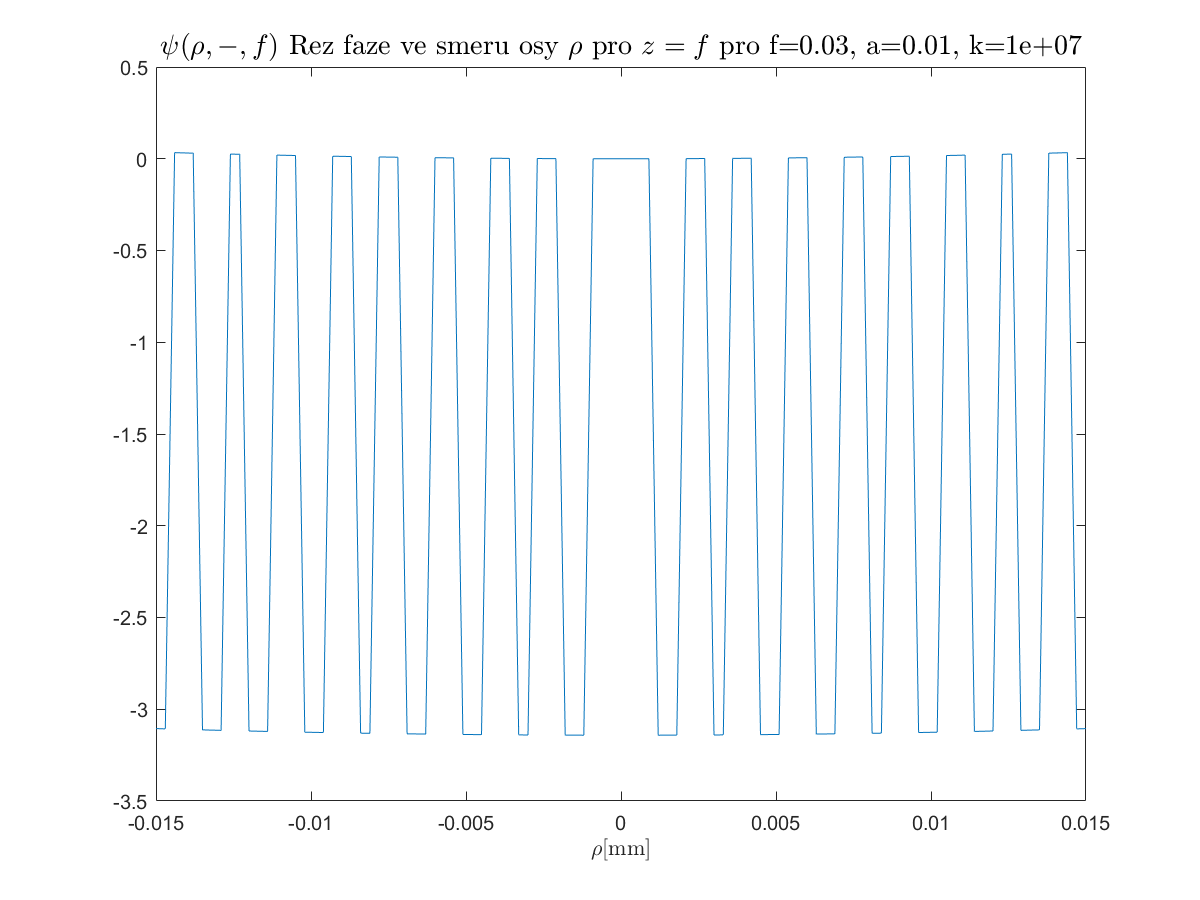
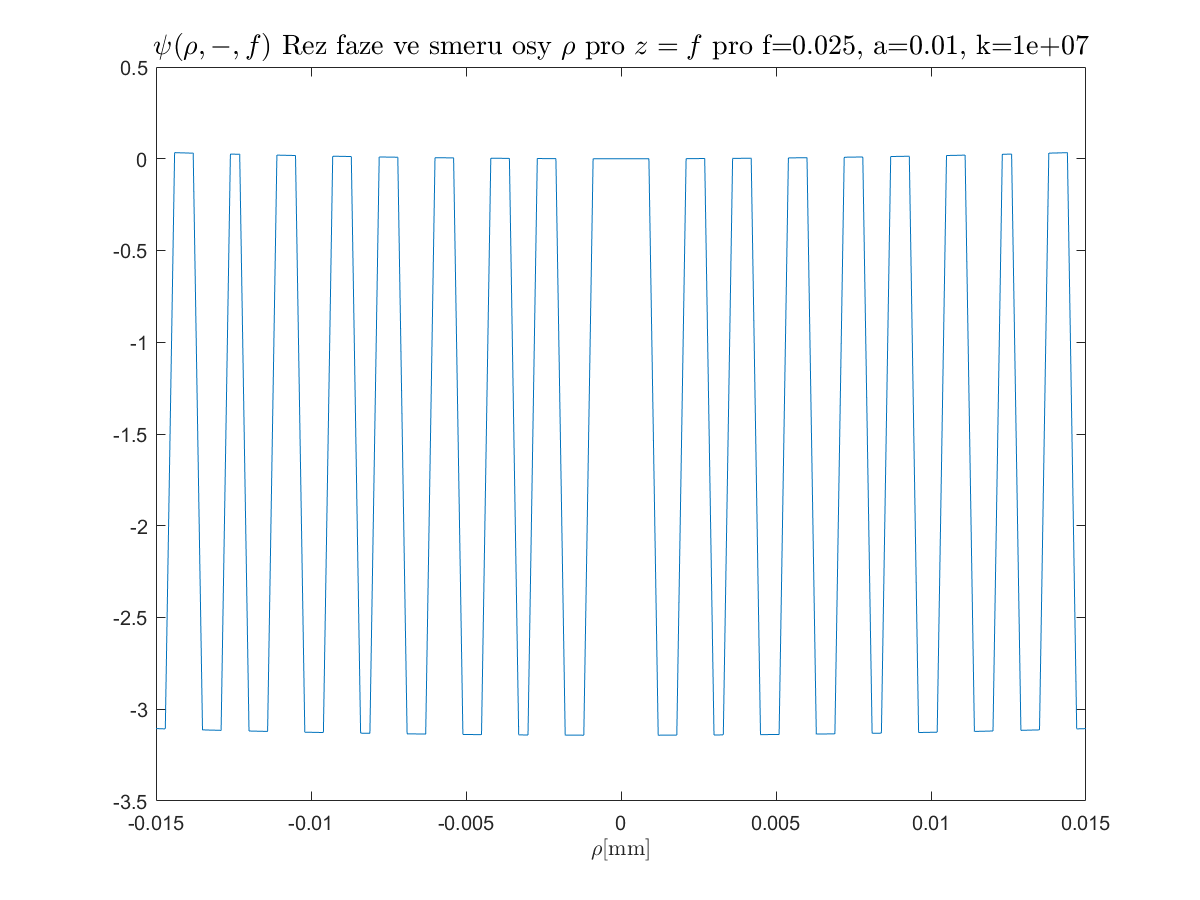
new pics

Changed region(s): [[0.1233, 0.0311, 0.925, 0.0622]]

diff --git a/vlnka.m b/vlnka.m
@@ -79,37 +79,37 @@ fntsz=14;
 
 figure('Position',[100 300 800 600])
 plot(zi,abs(PSI1D).^2);
-title('$\psi(0,-,z)$ Osova relativni intenzita pro f='+compose("%.0g",f)+', a='+compose("%.0g",a)+', k='+compose("%.0g",k),'fontsize',fntsz,'Interpreter','latex')
+title('$\psi(0,-,z)$ Osova relativni intenzita pro f='+compose("%.2g",f)+', a='+compose("%.2g",a)+', k='+compose("%.2g",k),'fontsize',fntsz,'Interpreter','latex')
 xlabel('$z-f$[mm]','Interpreter','latex')
 
 figure('Position',[100 300 800 600])
 plot(zi,angle(PSI1D));
-title('$\psi(0,-,z)$ Osova faze pro f='+compose("%.0g",f)+', a='+compose("%.0g",a)+', k='+compose("%.0g",k),'fontsize',fntsz,'Interpreter','latex')
+title('$\psi(0,-,z)$ Osova faze pro f='+compose("%.2g",f)+', a='+compose("%.2g",a)+', k='+compose("%.2g",k),'fontsize',fntsz,'Interpreter','latex')
 xlabel('$z-f$[mm]','Interpreter','latex')
 
 figure('Position',[100 300 800 600])
 plot(x,abs(PSIAXZ).^2);
-title('$\psi(0,-,z)$ Rez relativni intenzity ve smeru osy $z$ pro $\rho=0$ pro f='+compose("%.0g",f)+', a='+compose("%.0g",a)+', k='+compose("%.0g",k),'fontsize',fntsz,'Interpreter','latex')
+title('$\psi(0,-,z)$ Rez relativni intenzity ve smeru osy $z$ pro $\rho=0$ pro f='+compose("%.2g",f)+', a='+compose("%.2g",a)+', k='+compose("%.2g",k),'fontsize',fntsz,'Interpreter','latex')
 xlabel('$z-f$[mm]','Interpreter','latex')
 
 figure('Position',[100 300 800 600])
 plot(x,angle(PSIAXZ));
-title('$\psi(0,-,z)$ Rez faze ve smeru osy $z$ pro $\rho=0$ pro f='+compose("%.0g",f)+', a='+compose("%.0g",a)+', k='+compose("%.0g",k),'fontsize',fntsz,'Interpreter','latex')
+title('$\psi(0,-,z)$ Rez faze ve smeru osy $z$ pro $\rho=0$ pro f='+compose("%.2g",f)+', a='+compose("%.2g",a)+', k='+compose("%.2g",k),'fontsize',fntsz,'Interpreter','latex')
 xlabel('$z-f$[mm]','Interpreter','latex')
 
 figure('Position',[100 300 800 600])
 plot(y,abs(PSIAXR).^2);
-title('$\psi(\rho,-,f)$ Rez relativni intenzity ve smeru osy $\rho$ pro $z=f$ pro f='+compose("%.0g",f)+', a='+compose("%.0g",a)+', k='+compose("%.0g",k),'fontsize',fntsz,'Interpreter','latex')
+title('$\psi(\rho,-,f)$ Rez relativni intenzity ve smeru osy $\rho$ pro $z=f$ pro f='+compose("%.2g",f)+', a='+compose("%.2g",a)+', k='+compose("%.2g",k),'fontsize',fntsz,'Interpreter','latex')
 xlabel('$\rho$[mm]','Interpreter','latex')
 
 figure('Position',[100 300 800 600])
 plot(y,angle(PSIAXR));
-title('$\psi(\rho,-,f)$ Rez faze ve smeru osy $\rho$ pro $z=f$ pro f='+compose("%.0g",f)+', a='+compose("%.0g",a)+', k='+compose("%.0g",k),'fontsize',fntsz,'Interpreter','latex')
+title('$\psi(\rho,-,f)$ Rez faze ve smeru osy $\rho$ pro $z=f$ pro f='+compose("%.2g",f)+', a='+compose("%.2g",a)+', k='+compose("%.2g",k),'fontsize',fntsz,'Interpreter','latex')
 xlabel('$\rho$[mm]','Interpreter','latex')
 
 figure('Position',[100 300 800 600])
 contour(X,Y,abs(PSI).^2,[0,0.001,0.002,0.003,0.005,0.01,0.02,0.03,0.05,0.1,0.2,0.3,0.4,0.5,0.6,0.7,0.8,0.9,1],'ShowText','on');
-title('$\psi(\rho,-,z)$ Relativni intenzita pro f='+compose("%.0g",f)+', a='+compose("%.0g",a)+', k='+compose("%.0g",k),'fontsize',fntsz,'Interpreter','latex')
+title('$\psi(\rho,-,z)$ Relativni intenzita pro f='+compose("%.2g",f)+', a='+compose("%.2g",a)+', k='+compose("%.2g",k),'fontsize',fntsz,'Interpreter','latex')
 xlabel('$z-f$[mm]','Interpreter','latex')
 ylabel('$\rho$[mm]','Interpreter','latex')
 colormap jet
@@ -117,7 +117,7 @@ colorbar
 
 figure('Position',[100 300 800 600])
 contour(X,Y,angle(PSI),20);
-title('$\psi(\rho,-,z)$ Faze pro f='+compose("%.0g",f)+', a='+compose("%.0g",a)+', k='+compose("%.0g",k),'fontsize',fntsz,'Interpreter','latex')
+title('$\psi(\rho,-,z)$ Faze pro f='+compose("%.2g",f)+', a='+compose("%.2g",a)+', k='+compose("%.2g",k),'fontsize',fntsz,'Interpreter','latex')
 xlabel('$z-f$[mm]','Interpreter','latex')
 ylabel('$\rho$[mm]','Interpreter','latex')
 colormap jet
@@ -125,7 +125,7 @@ colorbar
 
 figure('Position',[100 300 800 600])
 contourf(X,Y,abs(PSI).^2,100,'LineColor','none');
-title('$\psi(\rho,-,z)$ Relativni intenzita pro f='+compose("%.0g",f)+', a='+compose("%.0g",a)+', k='+compose("%.0g",k),'fontsize',fntsz,'Interpreter','latex')
+title('$\psi(\rho,-,z)$ Relativni intenzita pro f='+compose("%.2g",f)+', a='+compose("%.2g",a)+', k='+compose("%.2g",k),'fontsize',fntsz,'Interpreter','latex')
 xlabel('$z-f$[mm]','Interpreter','latex')
 ylabel('$\rho$[mm]','Interpreter','latex')
 colormap jet
@@ -133,7 +133,7 @@ colorbar
 
 figure('Position',[100 300 800 600])
 surfc(X,Y,abs(PSI).^2)
-title('$\psi(\rho,-,z)$ Relativni intenzita pro f='+compose("%.0g",f)+', a='+compose("%.0g",a)+', k='+compose("%.0g",k),'fontsize',fntsz,'Interpreter','latex')
+title('$\psi(\rho,-,z)$ Relativni intenzita pro f='+compose("%.2g",f)+', a='+compose("%.2g",a)+', k='+compose("%.2g",k),'fontsize',fntsz,'Interpreter','latex')
 xlabel('$z-f$[mm]','Interpreter','latex')
 ylabel('$\rho$[mm]','Interpreter','latex')
 colormap jet
@@ -143,7 +143,7 @@ axis tight
 
 figure('Position',[100 300 800 600])
 contourf(X,Y,angle(PSI),100,'LineColor','none');
-title('$\psi(\rho,-,z)$ Faze pro f='+compose("%.0g",f)+', a='+compose("%.0g",a)+', k='+compose("%.0g",k),'fontsize',fntsz,'Interpreter','latex')
+title('$\psi(\rho,-,z)$ Faze pro f='+compose("%.2g",f)+', a='+compose("%.2g",a)+', k='+compose("%.2g",k),'fontsize',fntsz,'Interpreter','latex')
 xlabel('$z-f$[mm]','Interpreter','latex')
 ylabel('$\rho$[mm]','Interpreter','latex')
 colormap jet
